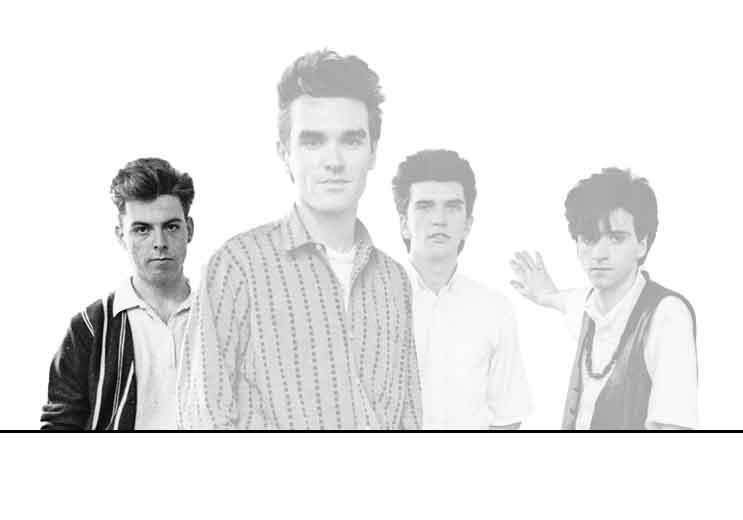
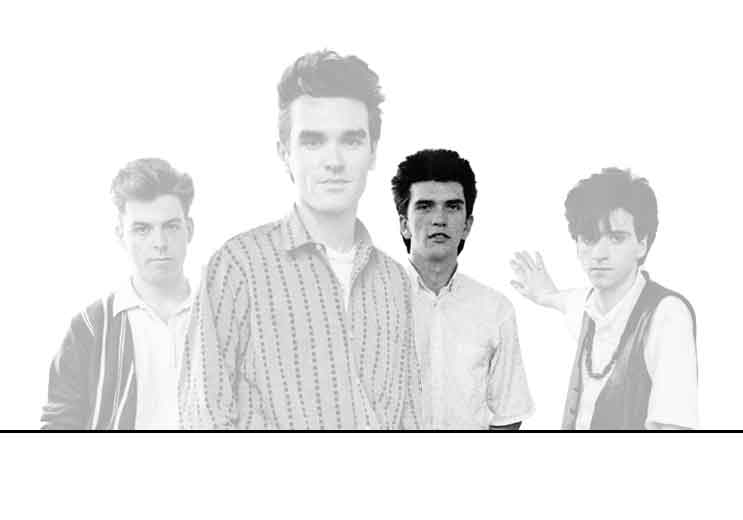
fehlerkorrektur

Changed region(s): [[0.031, 0.2769, 0.2786, 0.8308], [0.5262, 0.2769, 0.6501, 0.5846], [0.5572, 0.6154, 0.712, 0.8308]]

diff --git a/lib/src/data/database_repository.dart b/lib/src/data/database_repository.dart
@@ -274,7 +274,8 @@ class DatabaseRepository {
   static const String smithsStartImagePath = 'assets/fotos/thesmiths_band.jpg';
   static const String mikeJoyceStartImagePath = 'assets/fotos/mike_joyce.jpg';
   static const String morrisseyStartImagePath = 'assets/fotos/morrissey.jpg';
-  static const String andyRourkeStartImagePath = 'assets/fotos/andy_rourke.jpg';
+  static const String andyRourkeStartImagePath =
+      'assets/fotos/andy_rourke_start.jpg';
   static const String johnnyMarrStartImagePath = 'assets/fotos/johnny_marr.jpg';
 
   static const String theSmithsStartImagePath =
